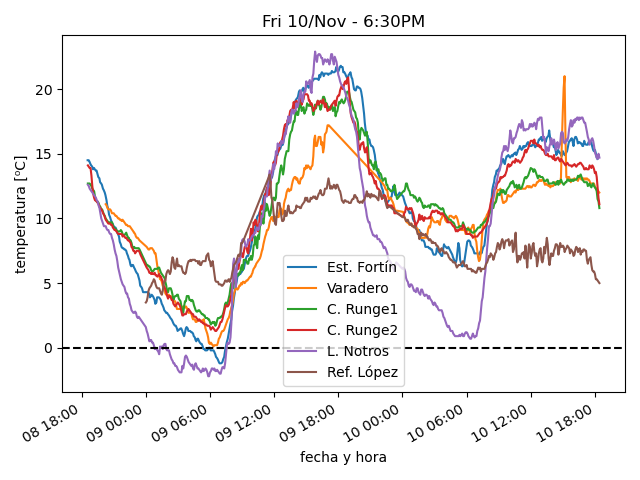
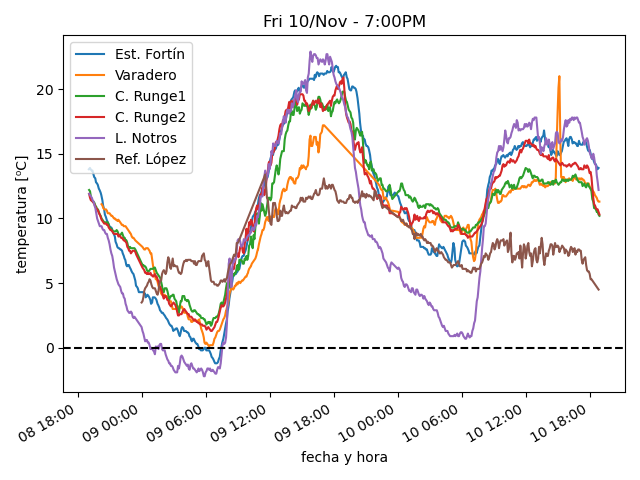
actualiza datos

diff --git a/estaciones/estacion1.html b/estaciones/estacion1.html
@@ -18,32 +18,32 @@
     </tr>
     <tr>
      <td class="stats_data">
-      6:13PM
+      6:49PM
      </td>
     </tr>
     <tr>
      <td class="stats_data">
-      14.6⁰C
+      13.9⁰C
      </td>
     </tr>
     <tr>
      <td class="stats_data">
-      1.1⁰C
+      0.9⁰C
      </td>
     </tr>
     <tr>
      <td class="stats_data">
-      40.0%
+      41.0%
      </td>
     </tr>
     <tr>
      <td class="stats_data">
-      1001.36hPa
+      1001.69hPa
      </td>
     </tr>
     <tr>
      <td class="stats_data">
-      29.7/33.0 km/hr SSW
+      12.8/33.3 km/hr NW
      </td>
     </tr>
     <tr>
@@ -53,12 +53,12 @@
     </tr>
     <tr>
      <td class="stats_data">
-      1.1
+      0.6
      </td>
     </tr>
     <tr>
      <td class="stats_data">
-      271.0 W/m²
+      260.0 W/m²
      </td>
     </tr>
    </tbody>

diff --git a/estaciones/estacion2.html b/estaciones/estacion2.html
@@ -18,32 +18,32 @@
     </tr>
     <tr>
      <td class="stats_data">
-      6:24PM
+      6:54PM
      </td>
     </tr>
     <tr>
      <td class="stats_data">
-      12.0⁰C
+      11.3⁰C
      </td>
     </tr>
     <tr>
      <td class="stats_data">
-      4.5⁰C
+      5.0⁰C
      </td>
     </tr>
     <tr>
      <td class="stats_data">
-      60.0%
+      65.0%
      </td>
     </tr>
     <tr>
      <td class="stats_data">
-      1010.74hPa
+      1010.84hPa
      </td>
     </tr>
     <tr>
      <td class="stats_data">
-      34.0/40.1 km/hr NW
+      32.7/38.2 km/hr NW
      </td>
     </tr>
     <tr>
@@ -53,12 +53,12 @@
     </tr>
     <tr>
      <td class="stats_data">
-      0.0
+      1.0
      </td>
     </tr>
     <tr>
      <td class="stats_data">
-      75.0 W/m²
+      180.8 W/m²
      </td>
     </tr>
    </tbody>

diff --git a/estaciones/estacion3.html b/estaciones/estacion3.html
@@ -18,22 +18,22 @@
     </tr>
     <tr>
      <td class="stats_data">
-      6:24PM
+      6:54PM
      </td>
     </tr>
     <tr>
      <td class="stats_data">
-      10.8⁰C
+      10.2⁰C
      </td>
     </tr>
     <tr>
      <td class="stats_data">
-      3.0⁰C
+      3.4⁰C
      </td>
     </tr>
     <tr>
      <td class="stats_data">
-      58.3%
+      62.6%
      </td>
     </tr>
     <tr>
@@ -43,7 +43,7 @@
     </tr>
     <tr>
      <td class="stats_data">
-      22.3/31.2 km/hr NNW
+      17.8/27.8 km/hr NNW
      </td>
     </tr>
     <tr>
@@ -53,12 +53,12 @@
     </tr>
     <tr>
      <td class="stats_data">
-      1.0
+      0.0
      </td>
     </tr>
     <tr>
      <td class="stats_data">
-      93.6 W/m²
+      60.2 W/m²
      </td>
     </tr>
    </tbody>

diff --git a/estaciones/estacion4.html b/estaciones/estacion4.html
@@ -18,32 +18,32 @@
     </tr>
     <tr>
      <td class="stats_data">
-      6:24PM
+      6:54PM
      </td>
     </tr>
     <tr>
      <td class="stats_data">
-      11.1⁰C
+      10.3⁰C
      </td>
     </tr>
     <tr>
      <td class="stats_data">
-      1.9⁰C
+      2.2⁰C
      </td>
     </tr>
     <tr>
      <td class="stats_data">
-      53.0%
+      57.0%
      </td>
     </tr>
     <tr>
      <td class="stats_data">
-      1004.91hPa
+      1005.01hPa
      </td>
     </tr>
     <tr>
      <td class="stats_data">
-      7.5/11.4 km/hr SSW
+      7.0/10.8 km/hr SSW
      </td>
     </tr>
     <tr>
@@ -58,7 +58,7 @@
     </tr>
     <tr>
      <td class="stats_data">
-      66.4 W/m²
+      68.8 W/m²
      </td>
     </tr>
    </tbody>

diff --git a/estaciones/estacion6.html b/estaciones/estacion6.html
@@ -18,32 +18,32 @@
     </tr>
     <tr>
      <td class="stats_data">
-      6:25PM
+      6:50PM
      </td>
     </tr>
     <tr>
      <td class="stats_data">
-      5.0⁰C
+      4.5⁰C
      </td>
     </tr>
     <tr>
      <td class="stats_data">
-      -1.4⁰C
+      -1.5⁰C
      </td>
     </tr>
     <tr>
      <td class="stats_data">
-      63.0%
+      65.0%
      </td>
     </tr>
     <tr>
      <td class="stats_data">
-      1001.93hPa
+      1001.9hPa
      </td>
     </tr>
     <tr>
      <td class="stats_data">
-      11.3/22.5 km/hr NE
+      8.0/19.3 km/hr NE
      </td>
     </tr>
     <tr>
@@ -58,7 +58,7 @@
     </tr>
     <tr>
      <td class="stats_data">
-      889.0 W/m²
+      893.0 W/m²
      </td>
     </tr>
    </tbody>

diff --git a/estaciones/estacion5.html b/estaciones/estacion5.html
@@ -18,27 +18,27 @@
     </tr>
     <tr>
      <td class="stats_data">
-      6:25PM
+      6:50PM
      </td>
     </tr>
     <tr>
      <td class="stats_data">
-      14.7⁰C
+      12.2⁰C
      </td>
     </tr>
     <tr>
      <td class="stats_data">
-      3.9⁰C
+      3.3⁰C
      </td>
     </tr>
     <tr>
      <td class="stats_data">
-      49.0%
+      54.0%
      </td>
     </tr>
     <tr>
      <td class="stats_data">
-      1003.49hPa
+      1004.5hPa
      </td>
     </tr>
     <tr>
